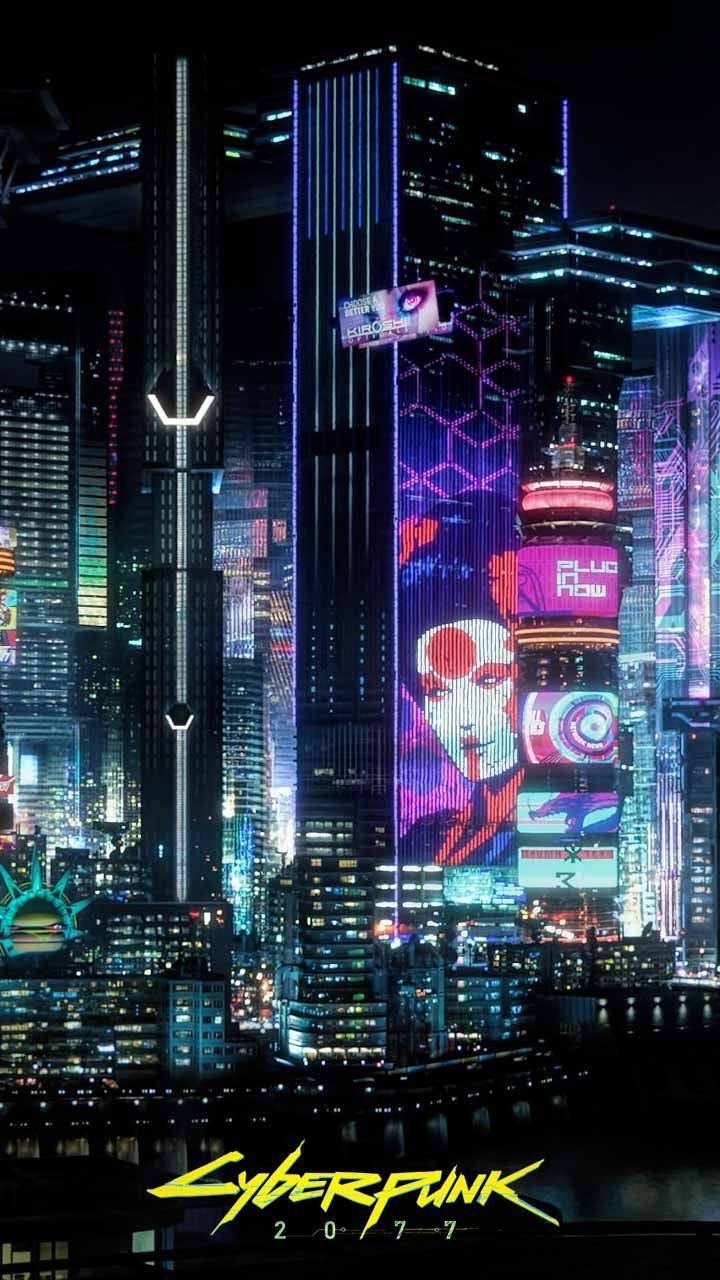
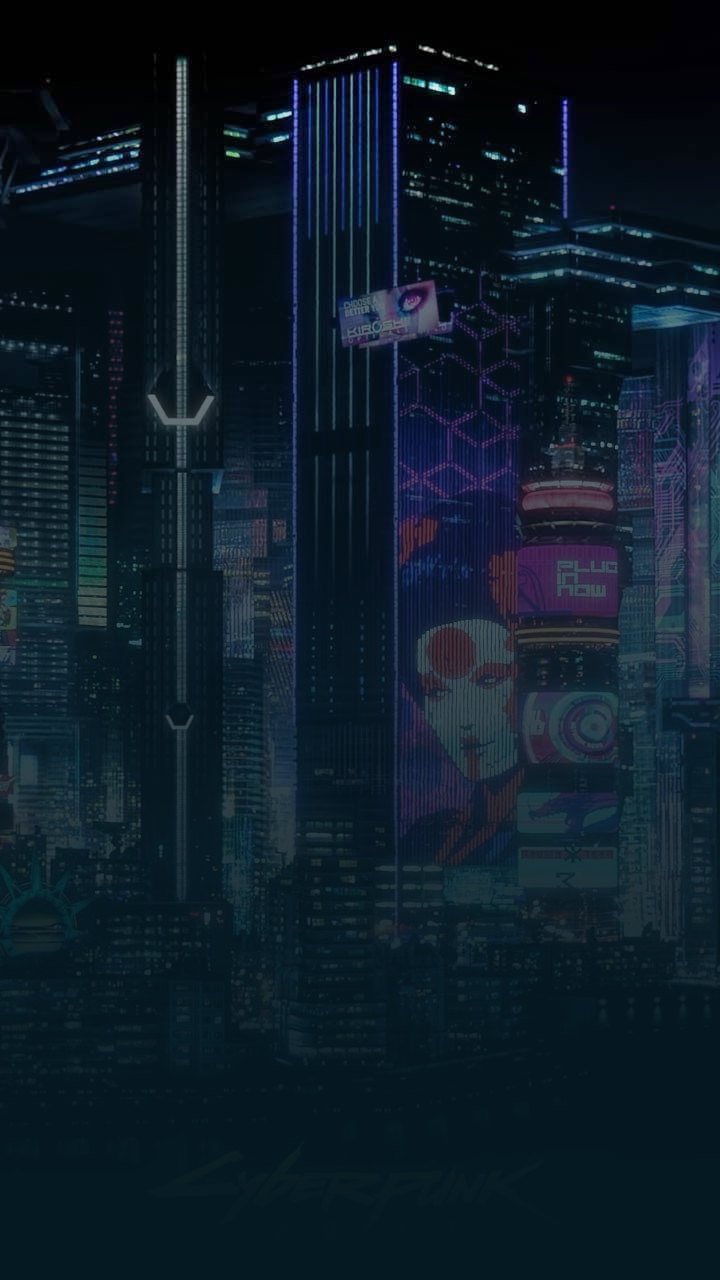
Agora as telas de seções estão mais bonitas

diff --git a/gameVault/screens/SectionScreen.js b/gameVault/screens/SectionScreen.js
@@ -5,7 +5,6 @@ import {
   StyleSheet, 
   ScrollView, 
   ImageBackground, 
-  Dimensions,
   ActivityIndicator,
   TouchableOpacity
 } from 'react-native';
@@ -50,108 +49,130 @@ const SectionScreen = ({ navigation, route }) => {
   }, [gameIds]);
 
   return (
-    <SafeAreaView style={styles.safeArea}>
-      <ScrollView style={styles.container}>
-        <ImageBackground
-          source={image}
-          style={styles.headerImage}
-          blurRadius={2}
-        >
-          <LinearGradient
-            colors={['rgba(0,0,0,0.7)', 'rgba(0,0,0,0.5)', 'transparent']}
-            style={styles.gradient}
-          />
-          <Text style={styles.title}>{title}</Text>
-        </ImageBackground>
-
-        <View style={styles.content}>
-          {loading ? (
-            <View style={styles.centerContainer}>
-              <ActivityIndicator size="large" color={color} />
-              <Text style={[styles.loadingText, { color }]}>Carregando jogos...</Text>
-            </View>
-          ) : error ? (
-            <View style={styles.centerContainer}>
-              <Text style={styles.errorText}>{error}</Text>
-            </View>
-          ) : (
-            games.map(game => (
-              <GameListCard key={game.id} game={game} />
-            ))
-          )}
-        </View>
-      </ScrollView>
+    <ImageBackground
+      source={image}
+      style={styles.backgroundImage}
+      blurRadius={4}
+    >
+      <LinearGradient
+        colors={['rgba(0,0,0,0.8)', 'rgba(0,0,0,0.5)', 'rgba(0,0,0,0.3)']}
+        style={styles.gradientOverlay}
+      />
       
-      {/* Botão de voltar */}
-      <TouchableOpacity 
-        style={styles.backButton}
-        onPress={() => navigation.goBack()}
-      >
-        <Ionicons name="arrow-back" size={24} color="#fff" />
-      </TouchableOpacity>
-    </SafeAreaView>
+      <SafeAreaView style={styles.safeArea}>
+        {/* Botão de voltar - movido para dentro do header */}
+        <View style={styles.header}>
+          <TouchableOpacity 
+            style={styles.backButton}
+            onPress={() => navigation.goBack()}
+          >
+            <Ionicons name="arrow-back" size={24} color="#fff" />
+          </TouchableOpacity>
+          <Text style={styles.title} numberOfLines={2}>{title}</Text>
+        </View>
+
+        <ScrollView style={styles.container}>
+          <View style={styles.content}>
+            {loading ? (
+              <View style={styles.centerContainer}>
+                <ActivityIndicator size="large" color={color} />
+                <Text style={[styles.loadingText, { color }]}>Carregando jogos...</Text>
+              </View>
+            ) : error ? (
+              <View style={styles.centerContainer}>
+                <Text style={styles.errorText}>{error}</Text>
+              </View>
+            ) : (
+              games.map(game => (
+                <GameListCard key={game.id} game={game} backgroundColor="rgba(10, 45, 66, 0.7)" />
+              ))
+            )}
+          </View>
+        </ScrollView>
+      </SafeAreaView>
+    </ImageBackground>
   );
 };
 
 const styles = StyleSheet.create({
-  safeArea: {
+  backgroundImage: {
     flex: 1,
-    backgroundColor: '#051923',
-  },
-  container: {
-    flex: 1,
-  },
-  headerImage: {
     width: '100%',
-    height: 200,
-    justifyContent: 'flex-end',
+    height: '100%',
+    resizeMode: 'cover',
   },
-  gradient: {
+  gradientOverlay: {
     position: 'absolute',
     left: 0,
     right: 0,
     top: 0,
     bottom: 0,
   },
+  safeArea: {
+    flex: 1,
+  },
+  container: {
+    flex: 1,
+    marginTop: 60, // Espaço para o header
+  },
+  header: {
+    position: 'absolute',
+    top: 0,
+    left: 0,
+    right: 0,
+    flexDirection: 'row',
+    alignItems: 'center',
+    paddingHorizontal: 20,
+    paddingTop: 10,
+    zIndex: 10,
+  },
   title: {
-    fontSize: 32,
+    flex: 1,
+    fontSize: 24,
     fontWeight: 'bold',
     color: 'white',
-    padding: 20,
-    textShadowColor: 'rgba(0,0,0,0.5)',
+    textShadowColor: 'rgba(0,0,0,0.8)',
     textShadowOffset: { width: 1, height: 1 },
     textShadowRadius: 5,
-  },
-  content: {
-    padding: 16,
-    minHeight: 200, // Garante espaço para o loading/error
-  },
-  centerContainer: {
-    flex: 1,
-    justifyContent: 'center',
-    alignItems: 'center',
-    paddingVertical: 40,
-  },
-  loadingText: {
-    marginTop: 16,
-    fontSize: 16,
-  },
-  errorText: {
-    color: 'white',
-    fontSize: 16,
-    textAlign: 'center',
+    marginLeft: 10,
+    marginRight: 50, // Espaço para evitar que o texto vá até a borda
   },
   backButton: {
-    position: 'absolute',
-    top: 40,
-    left: 20,
-    zIndex: 10,
     backgroundColor: 'rgba(0,0,0,0.5)',
     borderRadius: 20,
     width: 40,
     height: 40,
     justifyContent: 'center',
     alignItems: 'center',
+  },
+  content: {
+    padding: 16,
+    minHeight: 200,
+  },
+  centerContainer: {
+    flex: 1,
+    justifyContent: 'center',
+    alignItems: 'center',
+    paddingVertical: 40,
+    backgroundColor: 'rgba(0,0,0,0.3)',
+    borderRadius: 10,
+    margin: 16,
+  },
+  loadingText: {
+    marginTop: 16,
+    fontSize: 16,
+    color: 'white',
+    textShadowColor: 'rgba(0,0,0,0.5)',
+    textShadowOffset: { width: 1, height: 1 },
+    textShadowRadius: 2,
+  },
+  errorText: {
+    color: 'white',
+    fontSize: 16,
+    textAlign: 'center',
+    textShadowColor: 'rgba(0,0,0,0.5)',
+    textShadowOffset: { width: 1, height: 1 },
+    textShadowRadius: 2,
   },
 });
 

diff --git a/gameVault/screens/StoreScreen.js b/gameVault/screens/StoreScreen.js
@@ -24,20 +24,20 @@ const StoreScreen = ({ navigation }) => {
   const sections = {
     newReleases: {
       title: "Novos Lançamentos",
-      color: "#2dc653",
-      image: require('../assets/new-releases-bg.png'),
+      color: "#137f41",
+      image: require('../assets/new-releases-bg2.png'),
       ids: [338067, 331204, 325591, 337024]
     },
     rpgs: {
       title: "Jogos de RPG",
-      color: "#faa307",
+      color: "#a82b1e",
       image: require('../assets/rpg-bg.png'),
       ids: [171233, 1877, 267306, 2155]
     },
     sega: {
       title: "Promoção SEGA!",
       color: "#023e8a",
-      image: require('../assets/Banner4.png'),
+      image: require('../assets/sega-bg.png'),
       ids: [150010, 217623, 114283, 120278]
     },
   };

diff --git a/gameVault/components/AccountScreen/library/styles.js b/gameVault/components/AccountScreen/library/styles.js
@@ -16,20 +16,21 @@ const styles = StyleSheet.create({
     maxWidth: '48%',
     backgroundColor: '#0a2d42',
     borderRadius: 10,
-    padding: 10,
+    overflow: 'hidden', // Para garantir que a imagem respeite o borderRadius
     borderWidth: 1,
     borderColor: '#284b63',
   },
   gameImage: {
     width: '100%',
-    height: 150,
+    aspectRatio: 3/4, // Proporção comum para capas de jogos
     borderRadius: 8,
   },
   gameTitle: {
     color: '#e0e0e0',
-    marginTop: 8,
+    padding: 8, // Adicionado padding apenas ao texto
     textAlign: 'center',
     fontSize: 14,
+    backgroundColor: '#0a2d42', // Fundo para o texto
   },
   listContent: {
     paddingHorizontal: 8,
